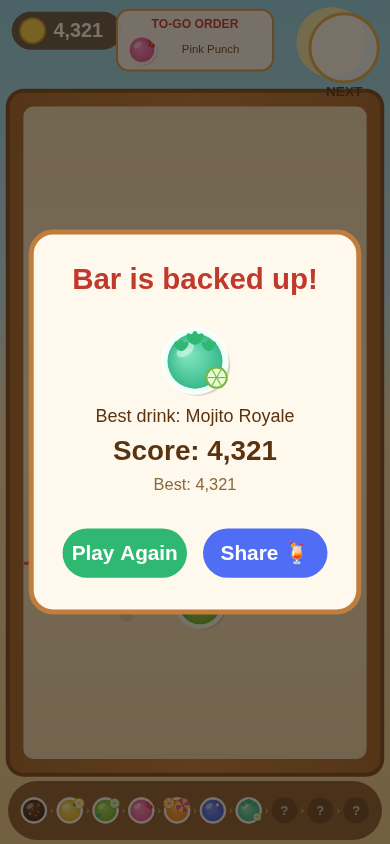
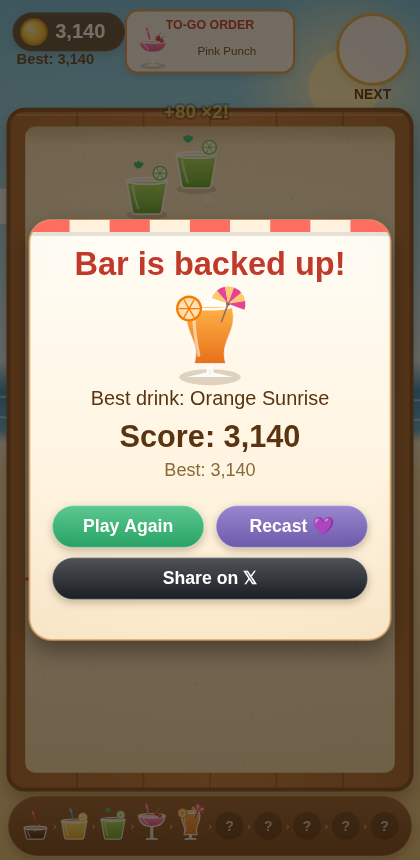
Rewrite the README as a launched-product doc
Reframed around the live game: play links (mergesip.xyz, Base App, the
mainnet contract on Basescan), a 2-minute getting-started tutorial
(connect -> onchain username -> play), the full drink chain with merge
points, mechanics guide (combos, wildcard, orders, daily mix, streaks,
challenges), and the onchain rewards. Dev docs (networks, contract
deploys, local e2e loop, repo tooling) are condensed under "Under the
hood"/"Develop", plus a fork-friendly "deploy your own instance" recipe
reflecting the real launch steps (manifest signing, base.dev app_id,
builder codes).

Also regenerated docs/screenshot-gameplay.png and
docs/screenshot-gameover.png with the current visuals (the old ones
predate the graphics overhaul).

Claude-Session: https://claude.ai/code/session_015aydT8E53tMXWgHgHZxrW1

diff --git a/README.md b/README.md
@@ -1,108 +1,171 @@
 # Merge Sip 🍹
 
-A beach-bar **shuffleboard merge game** built as a **Base Mini App**.
+**Play now → [mergesip.xyz](https://mergesip.xyz)** · live as a **Base Mini App** · contract on **[Base mainnet](https://basescan.org/address/0x34d43D6570664919a17071C17acb3A7e48A0A762)**
 
-Flick tropical drinks up the sandy board. When two identical drinks collide they
-merge into the next, fancier cocktail — chase the 10-tier chain all the way to
-the **Legendary Tiki**. Serve to-go orders for bonus coins, and don't let the
-bar back up past the dashed line!
+A beach-bar **shuffleboard merge game**. Flick tropical drinks up the sandy
+board — when two identical drinks collide they merge into the next, fancier
+cocktail. Chase the 10-tier chain all the way to the **Legendary Tiki**, serve
+to-go orders for bonus coins, and don't let the bar back up past the dashed
+line!
 
 | Gameplay | Game over |
 | --- | --- |
 | ![Gameplay](docs/screenshot-gameplay.png) | ![Game over](docs/screenshot-gameover.png) |
 
+## Where to play
+
+- **Base App** — share or open [mergesip.xyz](https://mergesip.xyz) inside
+  Base App and it launches as a mini app (in-app wallet, haptics, cast
+  sharing). Verified manifest, indexed in the mini-app catalog.
+- **Any browser** — [mergesip.xyz](https://mergesip.xyz) works on desktop and
+  mobile with an injected wallet (MetaMask) or Base Account.
+- **Onchain** — usernames, scores, badges, and score-card NFTs live in the
+  [`DrinkTally`](contracts/src/DrinkTally.sol) contract at
+  [`0x34d4…A762`](https://basescan.org/address/0x34d43D6570664919a17071C17acb3A7e48A0A762)
+  on Base mainnet.
+
+## Getting started (2 minutes)
+
+1. **Open [mergesip.xyz](https://mergesip.xyz)** (in Base App or a browser).
+2. **Connect your wallet** — Base App's in-app wallet connects with one tap;
+   in a browser you can use MetaMask or Base Account. If your address has a
+   **Basename**, the game shows it instead of `0x…`.
+3. **Register your username** — pick a 3-16 character handle (a-z, 0-9, _).
+   Hitting **Register** mints it onchain via `claimUsername` (you pay a tiny
+   bit of Base gas). Usernames are globally unique and appear on the
+   leaderboard, your score cards, and your shares. Returning players skip
+   straight past this — the game recognizes your claimed name.
+4. **Start Mixing** — or take on today's **Daily Mix**.
+
 ## How to play
 
-- **Touch and drag** left/right to position your drink, **release** to send it sliding up the board.
-- Drinks glide on the sand with friction and bounce off the walls and each other.
-- Two matching drinks that touch **merge** into the next tier (+points).
-- **Combos** — chain merges within ~2 seconds and the points multiply (up to ×5).
-- **Wildcard shaker** — a rare silver shaker that merges with *any* drink (unlocks
-  after your first Pink Punch).
-- Complete the **To-Go Order** shown at the top for a coin bonus — and the
-  barback clears the three smallest drinks off the crowded board.
-- If a drink comes to rest **below the dashed line**, the bar is backed up — game over.
-- **Daily Mix** — one seeded run per day, the same drink sequence for every
-  player worldwide; your daily best is tracked separately.
-- **Streaks** — play at least once a day to grow your 🔥 streak (shown on the intro).
-- **Challenge links** — shared scores embed a `?c=<score>&by=<name>` link;
-  friends who open it see a "beat @name" target in-game.
-- Share your score straight to the feed with the **Share** button (opens the cast composer inside Base App).
+**Controls:** touch (or click) and drag left/right to aim, release to send the
+drink sliding up the board. Drinks glide on sand friction and bounce off the
+walls and each other.
 
-## Onchain: the Drink Tally
+**Merging:** two matching drinks that touch merge into the next tier and score
+points. The full chain:
 
-The game has an optional onchain layer built with **wagmi + viem** following the
-[Build an app on Base](https://docs.base.org/get-started/build-app) guide:
+| Tier | Drink | Merge points |
+|-----:|-------|-------------:|
+| 1 | Cola Pop | — (starter) |
+| 2 | Lemon Fizz | 20 |
+| 3 | Lime Cooler | 40 |
+| 4 | Pink Punch | 80 |
+| 5 | Orange Sunrise | 150 |
+| 6 | Blueberry Breeze | 250 |
+| 7 | Mojito Royale | 400 |
+| 8 | Berry Colada | 650 |
+| 9 | Sunset Slush | 1,000 |
+| 10 | **Legendary Tiki** | **2,000** |
 
-- **`contracts/src/DrinkTally.sol`** — the game's onchain hub: unique
-  usernames (`claimUsername`, 3-16 chars a-z/0-9/_), a global `totalServed`
-  tally, per-player `bestScore` / `bestTier`, and a top-10 leaderboard
-  maintained onchain (`getLeaderboard`). Players pay their own gas — there is
-  deliberately no gas sponsorship.
-- **Intro screen** — when the contract is live, the game is fully wallet-gated:
-  connect a wallet first, then register a username (3-16 chars a-z/0-9/_) —
-  the Register button sends the `claimUsername` transaction, and nothing is
-  playable until the name is minted onchain. Returning players who already
-  claimed skip straight to play. Without a deployed contract the username is
-  stored locally (`merge-sip-username`) and the game works offchain. The
-  intro also shows your personal best, streak, milestone badges, and the
-  leaderboard.
-- **Auto-save new bests** — when a connected player finishes a run that beats
-  their onchain best, the `serveScore` transaction starts automatically (the
-  wallet still asks for the signature); no button hunting.
-- **Milestone badges** — the first time a player ever mixes each tier-6+
-  drink, `serveScore` awards a badge (onchain bitmask + event), shown lit/dim
-  on the intro screen.
-- **Score-card NFTs** — `mintScoreCard()` mints the player's best run as an
-  ERC-721 whose artwork is an SVG generated entirely by the contract
-  (`tokenURI` returns base64 JSON + SVG; no IPFS, no servers).
-- **Leaderboard** — top mixologists by best score with their claimed names,
-  reachable from the intro and the game-over screen. An extra **This Week** tab
-  is rebuilt client-side from `ScoreServed` events (chunked `eth_getLogs` with
-  a localStorage cache), since the contract only stores the all-time top 10.
-- **Personal best in the HUD** — always visible under your score, switching to
-  "New best!" the moment you pass it.
-- **Social sharing** — Recast opens the Farcaster cast composer; Share on 𝕏
-  renders a score-card PNG client-side and shares it via the native share
-  sheet (or downloads it and opens a prefilled tweet on desktop).
+**Game over:** if any drink comes to rest **below the dashed line**, the bar
+is backed up and the shift ends. The line pulses red when the pile gets close.
 
-Contract dependencies: `@openzeppelin/contracts@4.9` (ERC-721, Base64,
-Strings), compiled for the `paris` EVM so local ganache testing works.
-- **Wallet connection** — Base App in-app wallet (Farcaster mini app connector),
-  [Base Account](https://docs.base.org/base-account/overview/what-is-base-account),
-  and injected wallets (MetaMask), with auto-reconnect (`src/wallet.ts`).
-- **Reads** — the global tally is shown in the HUD, your onchain best on the
-  game-over screen (`readContract`, refreshed after each write).
-- **Writes** — "Serve Score Onchain" on the game-over screen records your run
-  (`serveScore(score, tier)`), with connect → switch-chain → sign → confirm
-  states surfaced on the button.
-- **EIP-5792** — wallet capabilities are detected per deployment chain
-  (`getCapabilities`); smart wallets submit via atomic `sendCalls`, EOAs fall
-  back to a plain `writeContract` transaction.
-- The wagmi/viem bundle is **lazy-loaded** (`src/onchain.ts` facade) so the game
-  paints instantly and `sdk.actions.ready()` isn't delayed.
+### Mechanics to master
 
-### Networks: mainnet for production, testnet for testing
+- **Combos ×5** — merges chained within ~2 seconds multiply their points, up
+  to ×5. Set up multi-merge shots for huge scores.
+- **Wildcard shaker 🍸** — a rare silver shaker (unlocks after your first
+  Pink Punch) that merges with *any* drink below the Tiki. Save it for your
+  biggest glass.
+- **To-Go Orders** — deliver the drink shown on the order card for a 2×
+  points bonus, and the barback clears the three smallest drinks off the
+  board — your pressure-release valve.
+- **The dealer gets meaner** — as you mix higher tiers, bigger drinks start
+  appearing in your hand and crowd the board.
 
-The app is **mainnet-first**: it targets Base mainnet unless told otherwise.
+### Daily & social
+
+- **🌞 Daily Mix** — one seeded challenge per day: every player worldwide
+  gets the *same* drink sequence. Your daily best is tracked separately.
+- **🔥 Streaks** — play at least once a day and your streak grows (shown on
+  the intro screen).
+- **🎯 Challenge links** — every shared score embeds a challenge. Friends who
+  open your link see "beat @you: 1,234" as a live target in their game, and
+  the game-over screen declares the winner.
+- **Sharing** — *Recast* opens the cast composer inside Base App; *Share on 𝕏*
+  renders your score card as a PNG client-side and opens the native share
+  sheet (or downloads it + a prefilled tweet on desktop).
+
+### Onchain rewards
+
+- **Auto-saved bests** — beat your onchain best and the game starts the
+  `serveScore` transaction automatically (your wallet still asks you to sign).
+- **Milestone badges** — the first time you ever mix each tier-6+ drink you
+  earn a badge, stored onchain as a bitmask and shown on the intro screen.
+- **Score-card NFTs** — mint your best run as an ERC-721 (`SIPCARD`) whose
+  artwork is an SVG generated *entirely by the contract* — no IPFS, no
+  servers.
+- **Leaderboards** — the all-time top 10 is maintained onchain; a **This
+  Week** tab is rebuilt client-side from `ScoreServed` events.
+
+## Under the hood
+
+### The DrinkTally contract
+
+[`contracts/src/DrinkTally.sol`](contracts/src/DrinkTally.sol) — one contract
+(ERC-721 + game logic), deployed at
+[`0x34d43D6570664919a17071C17acb3A7e48A0A762`](https://basescan.org/address/0x34d43D6570664919a17071C17acb3A7e48A0A762):
+
+- `claimUsername(name)` — globally unique handles (3-16 chars a-z/0-9/_),
+  validated onchain; changing your name frees the old one.
+- `serveScore(score, tier)` — records a run: bumps the global `totalServed`,
+  updates your `bestScore`/`bestTier`, awards milestone badges, and re-ranks
+  the onchain top-10 board.
+- `mintScoreCard()` — snapshots your best as a fully-onchain SVG NFT.
+- `getLeaderboard()` — players, scores, tiers, and names in one read.
+
+Players pay their own gas — there is deliberately no sponsorship. Every
+transaction the game sends carries an
+[ERC-8021 builder code](https://docs.base.org) suffix for onchain attribution.
+Contract dependencies: `@openzeppelin/contracts@4.9`, compiled for the `paris`
+EVM so local ganache testing works.
+
+### The client
+
+- [Vite](https://vite.dev) + TypeScript, zero-framework; Canvas 2D rendering
+  with a small custom physics engine (circle collisions, sand friction, flick
+  input).
+- All in-game art is drawn procedurally at runtime (`src/drinks.ts`); sound is
+  a WebAudio synth (`src/sfx.ts`). No image or audio assets in the game loop.
+- [`@farcaster/miniapp-sdk`](https://miniapps.farcaster.xyz) for Base App
+  integration (`sdk.actions.ready()`, `composeCast`, haptics) with graceful
+  fallbacks for plain browsers.
+- `@wagmi/core` + `viem` for the onchain layer, lazy-loaded (`src/onchain.ts`
+  facade) so the game paints instantly. Wallet support: Base App in-app
+  wallet, Base Account, injected (MetaMask), with auto-reconnect and
+  **Basename** reverse resolution for connected addresses.
+- **EIP-5792** capability detection: smart wallets submit batched `sendCalls`,
+  EOAs fall back to plain transactions — with explicit
+  connect → switch-chain → sign → confirm states surfaced in the UI.
+
+## Develop
+
+```bash
+npm install
+npm run dev     # http://localhost:5173
+npm run build   # outputs dist/
+```
+
+### Networks: mainnet for players, testnet for testing
+
 Network selection lives in `src/config/tally.ts` (first match wins):
 
-1. `localStorage.setItem('merge-sip-network', 'base-sepolia')` — flip a running
-   build to testnet from the browser console (no rebuild)
-2. `VITE_TALLY_NETWORK=base-sepolia npm run build` — a staging/testnet build
+1. `localStorage.setItem('merge-sip-network', 'base-sepolia')` — flip a
+   running build to testnet from the browser console (no rebuild)
+2. `VITE_TALLY_NETWORK=base-sepolia npm run build` — a staging build
 3. default: `base` (mainnet)
 
-Deploy the contract to **both** networks and put each address in the
-`ADDRESSES` map in `src/config/tally.ts` — mainnet under `base` (what players
-use), testnet under `base-sepolia` (what you test against). The onchain UI
-stays completely hidden on any network whose address is still the zero
-address.
+The onchain UI hides entirely on any network whose address in the `ADDRESSES`
+map is the zero address — the game then runs fully offchain with a locally
+stored username (handy for development).
+
+Quick overrides, no rebuild:
+`localStorage.setItem('merge-sip-tally-address', '0x...')` and
+`localStorage.setItem('merge-sip-rpc-url', 'http://127.0.0.1:8545')`.
 
 ### Deploying the contract
-
-Two ways to deploy. For Base Sepolia you need testnet ETH from a
-[faucet](https://docs.base.org/base-chain/network-information/network-faucets);
-for mainnet, real ETH on Base.
 
 **Option A — Foundry** (the [Deploy on Base](https://docs.base.org/get-started/deploy-on-base) flow):
 
@@ -120,7 +183,7 @@ forge create ./src/DrinkTally.sol:DrinkTally \
 cast call <CONTRACT_ADDRESS> "totalServed()(uint256)" --rpc-url $BASE_SEPOLIA_RPC_URL
 ```
 
-**Option B — Node only** (no Foundry needed; uses solc + viem):
+**Option B — Node only** (no Foundry; solc + viem):
 
 ```bash
 npm i -D solc
@@ -129,12 +192,10 @@ PRIVATE_KEY=0x... node scripts/deploy.mjs --network base-sepolia   # testnet
 PRIVATE_KEY=0x... node scripts/deploy.mjs --network base           # mainnet
 ```
 
-Then paste the deployed address(es) into the `ADDRESSES` map in
-`src/config/tally.ts` and rebuild. (For a quick test without editing code:
-`localStorage.setItem('merge-sip-tally-address', '0x...')` and reload.)
+Paste the **deployed contract address** (not your wallet address!) into the
+`ADDRESSES` map in `src/config/tally.ts` and rebuild.
 
-**Local end-to-end loop** (no testnet ETH needed) — deploy to a local chain and
-play against it:
+### Local end-to-end loop (no testnet ETH needed)
 
 ```bash
 npm i -D solc ganache playwright
@@ -145,71 +206,37 @@ npm run dev                                                # terminal 3
 node scripts/e2e-local-chain.mjs <deployed-address>        # full flow test
 ```
 
-The E2E script drives the real game UI against the local chain: reads the
-tally, connects, saves a score (`serveScore`), waits for the receipt, and
-verifies the reads refresh.
+The E2E drives the real UI against the local chain: connect → onchain
+username claim → play → auto-serve → mint → leaderboard. Two more regression
+scripts cover badge-driven auto-saves (`e2e-milestone-save.mjs`,
+`e2e-badges-loading.mjs`).
 
-The Base App in-app wallet lives on Base mainnet, which is why the default
-production network is `base` — make sure the mainnet address is set before
-publishing the mini app.
-
-## Tech
-
-- [Vite](https://vite.dev) + TypeScript, zero-framework
-- Canvas 2D rendering with a small custom physics engine (circle collisions, sand friction, flick input)
-- All art is drawn procedurally at runtime (`src/drinks.ts`) — no image assets needed in-game
-- WebAudio synth for sound effects (`src/sfx.ts`) — no audio assets
-- [`@farcaster/miniapp-sdk`](https://miniapps.farcaster.xyz) for Base App integration
-  (`sdk.actions.ready()`, `composeCast` score sharing, haptics), with graceful
-  fallbacks so the game also runs in any plain browser
-- `@wagmi/core` + `viem` for the onchain layer (no React — the game is plain
-  canvas, so the guide's hooks map to core actions: `useReadContract` →
-  `readContract`, `useSendCalls` → `sendCalls`, `useCapabilities` →
-  `getCapabilities`, and so on)
-
-## Develop
-
-```bash
-npm install
-npm run dev     # http://localhost:5173
-npm run build   # outputs dist/
-```
-
-## Deploy as a Base Mini App
-
-1. **Deploy the static site** (Vercel, Netlify, Cloudflare Pages, …).
-   Build command `npm run build`, output directory `dist`. Note your production
-   URL, e.g. `https://merge-sip.vercel.app`.
-
-2. **Point the app at your URL.** Replace every occurrence of
-   `https://mergesip.xyz` with your production URL in:
-   - `public/.well-known/farcaster.json` (homeUrl, iconUrl, splashImageUrl, heroImageUrl, ogImageUrl)
-   - `index.html` (the `fc:miniapp` / `fc:frame` meta tags)
-   - `src/base.ts` (`APP_URL`)
-
-   Then rebuild and redeploy.
-
-3. **Verify ownership (account association).** Generate the signed
-   `accountAssociation` for your domain and paste it into
-   `public/.well-known/farcaster.json`:
-   - Easiest: [Base Build](https://base.dev) → your app → *Manifest* tool, or
-   - Farcaster developer tools → *Domains* → sign the manifest with your Farcaster custody account.
-
-4. **Link your Base Build account.** Put your Base Build account address in
-   `baseBuilder.allowedAddresses` in `public/.well-known/farcaster.json`.
-
-5. **Preview & publish.** Check the manifest is served at
-   `https://<your-domain>/.well-known/farcaster.json`, then preview the app with
-   the Base Build preview tool and share the URL in Base App — the `fc:miniapp`
-   embed makes it render as a launchable card.
-
-## Repo tooling
+### Repo tooling
 
 - `scripts/gen-assets.mjs` + `assetgen.html` — regenerate `public/icon.png`,
-  `public/splash.png`, `public/hero.png` by rendering the in-game art in
-  headless Chromium (`npm i -D playwright`, run `npm run dev`, then
-  `node scripts/gen-assets.mjs`).
+  `public/splash.png`, `public/hero.png` from the in-game art in headless
+  Chromium.
 - `scripts/smoke-test.mjs` — headless gameplay smoke test (launch, merge,
-  game over, restart) against the dev server.
-- `scripts/onchain-test.mjs` — headless test of the onchain flow using a mock
-  EIP-1193 provider (connect, capability detection, EOA write path).
+  game over, restart).
+- `scripts/onchain-test.mjs` — headless onchain-flow test with a mock
+  EIP-1193 provider.
+
+## Deploy your own instance
+
+Fork-friendly. The short version:
+
+1. **Static hosting** (Vercel/Netlify/Cloudflare Pages): build `npm run build`,
+   output `dist`, then point your domain's DNS at the host.
+2. **Swap the URLs** — replace `https://mergesip.xyz` with your domain in
+   `public/.well-known/farcaster.json`, `index.html` (the `fc:miniapp` /
+   `fc:frame` metas), and `src/base.ts` (`APP_URL`).
+3. **Verify domain ownership** — sign the `accountAssociation` for your domain
+   with the [Farcaster manifest tool](https://farcaster.xyz/~/developers/mini-apps/manifest)
+   (or [base.dev](https://base.dev)) and paste the `header`/`payload`/`signature`
+   into `public/.well-known/farcaster.json`.
+4. **Register on [base.dev](https://base.dev)** — add the `base:app_id` meta
+   tag it gives you to `index.html`, put your builder address in
+   `baseBuilder.allowedAddresses`, and (optionally) swap in your own
+   ERC-8021 builder-code suffix in `src/wallet.ts`.
+5. **Share your URL in Base App** — the embed meta renders it as a launch
+   card, and the verified manifest makes it indexable.